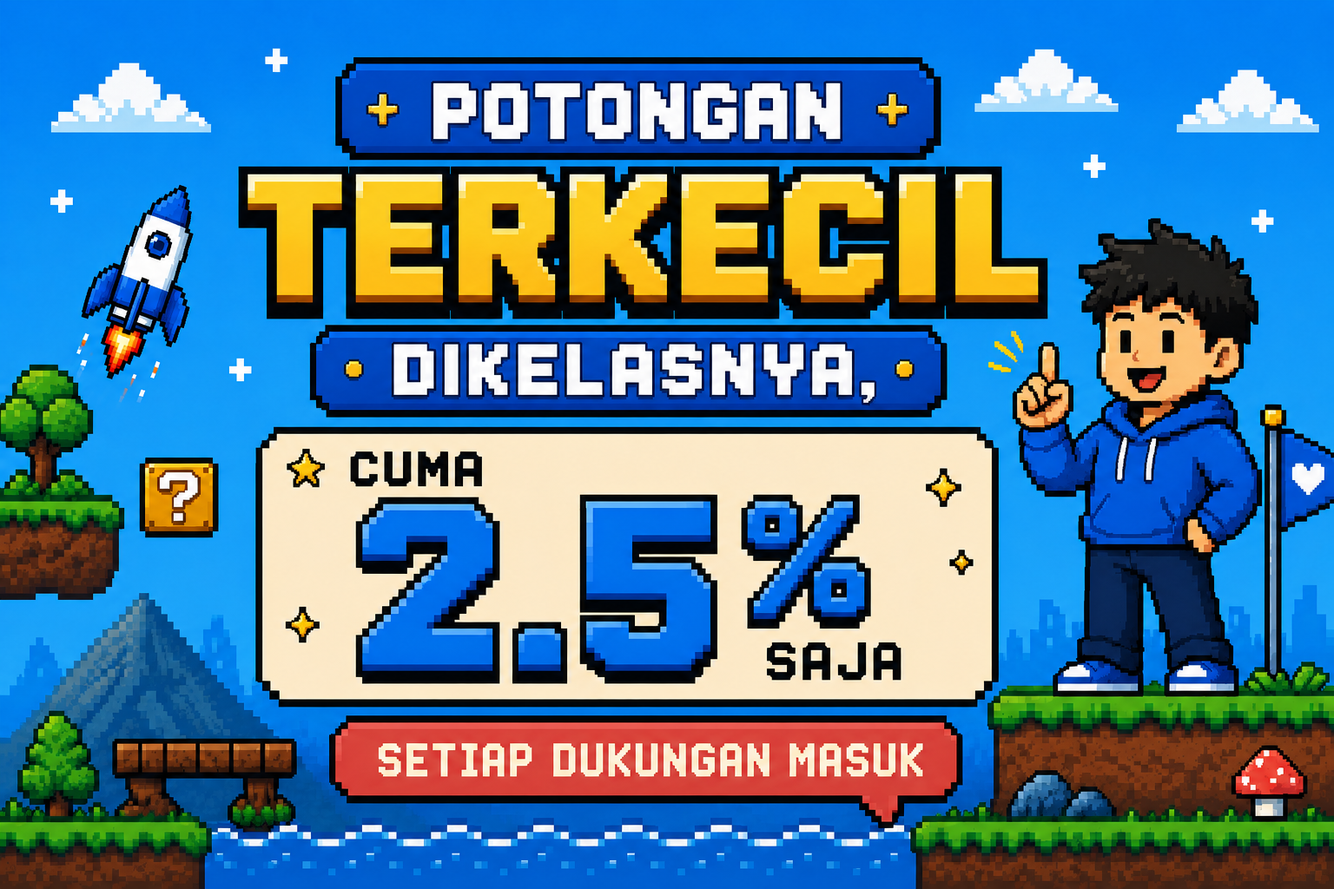
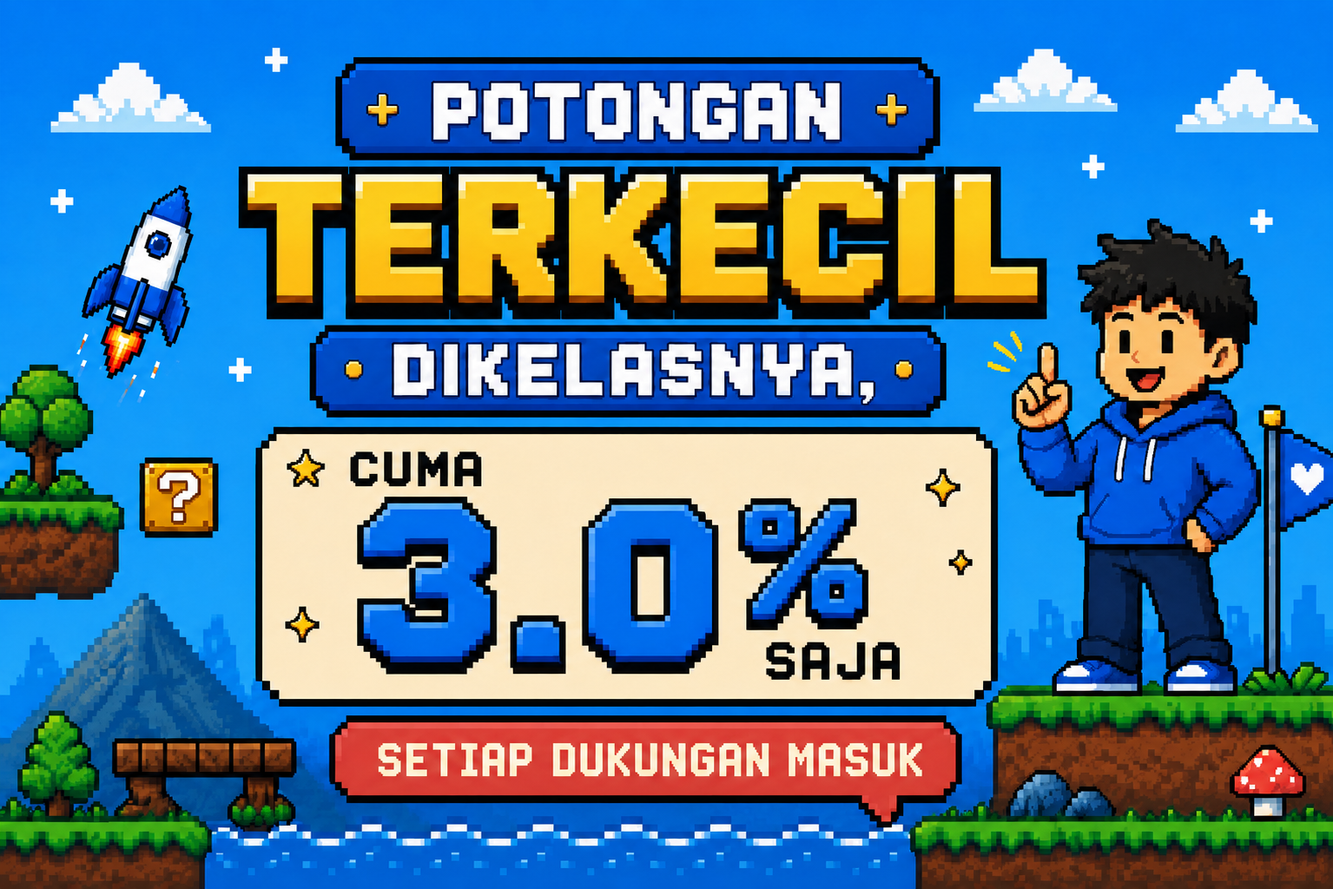
fix

diff --git a/src/pages/taptiptup.jsx b/src/pages/taptiptup.jsx
@@ -6,13 +6,13 @@ import { motion, useMotionValue, useSpring } from "framer-motion";
 ───────────────────────────────────────── */
 
 const FEATURES = [
-  { num: "01", ico: "🎨", name: "Overlay OBS Kustom", desc: "Alert donasi tampil langsung di stream. Tema modern, classic, atau minimal dengan animasi dan warna sesukamu." },
-  { num: "02", ico: "🔊", name: "Suara per Nominal", desc: "Sultan dapat sound kenceng! Atur efek suara berbeda untuk setiap tier donasi. 16+ preset siap pakai." },
+  { num: "01", ico: "🎨", name: "Overlay OBS Kustom", desc: "Alert Dukungan tampil langsung di stream. Tema modern, classic, atau minimal dengan animasi dan warna sesukamu." },
+  { num: "02", ico: "🔊", name: "Suara per Nominal", desc: "Sultan dapat sound kenceng! Atur efek suara berbeda untuk setiap tier Dukungan. 16+ preset siap pakai." },
   { num: "03", ico: "🛡", name: "Filter Kata Terlarang", desc: "Blokir, sensor, atau ganti kata tidak pantas otomatis. Jagain konten tetap aman dan profesional." },
-  { num: "04", ico: "🎯", name: "Milestones & Goals", desc: "Tampilkan progress target donasi di OBS. Donor bisa lihat seberapa dekat goal tercapai." },
-  { num: "05", ico: "🖼", name: "Media Alert", desc: "Izinkan donor kirim gambar atau video saat donasi mencapai nominal tertentu. Sultan alert yang epic." },
-  { num: "06", ico: "🗳", name: "Poll & Subathon", desc: "Voting live untuk penonton dan timer subathon yang bertambah otomatis setiap ada donasi masuk." },
-  { num: "07", ico: "🏆", name: "Leaderboard", desc: "Tampilkan top donor di overlay OBS. Gamifikasi donasi bikin penonton makin kompetitif dan seru." },
+  { num: "04", ico: "🎯", name: "Milestones & Goals", desc: "Tampilkan progress target Dukungan di OBS. Donor bisa lihat seberapa dekat goal tercapai." },
+  { num: "05", ico: "🖼", name: "Media Alert", desc: "Izinkan donor kirim gambar atau video saat Dukungan mencapai nominal tertentu. Sultan alert yang epic." },
+  { num: "06", ico: "🗳", name: "Poll & Subathon", desc: "Voting live untuk penonton dan timer subathon yang bertambah otomatis setiap ada Dukungan masuk." },
+  { num: "07", ico: "🏆", name: "Leaderboard", desc: "Tampilkan top donor di overlay OBS. Gamifikasi Dukungan bikin penonton makin kompetitif dan seru." },
   { num: "08", ico: "👥", name: "Streamer Community", desc: "Temukan dan follow sesama streamer. Bangun network, kolaborasi, dan berkembang bersama." },
 ];
 
@@ -20,19 +20,19 @@ const HOW_IT_WORKS = [
   { num: "01", ico: "🚀", title: "Daftar Gratis", desc: "Buat akun dalam hitungan detik. Tidak perlu kartu kredit apapun." },
   { num: "02", ico: "🎨", title: "Konfigurasi Overlay", desc: "Pilih tema, warna, animasi, dan atur suara sesuai brand stream-mu." },
   { num: "03", ico: "📺", title: "Pasang di OBS", desc: "Copy URL overlay, tambahkan sebagai Browser Source di OBS Studio." },
-  { num: "04", ico: "💸", title: "Terima Donasi", desc: "Donor bayar via QRIS atau transfer — alert langsung muncul di stream!" },
+  { num: "04", ico: "💸", title: "Terima Dukungan", desc: "Donor bayar via QRIS atau transfer — alert langsung muncul di stream!" },
 ];
 
 const TESTIMONIALS = [
   { avatar: "R", avatarBg: "#7c5cbf", avatarColor: "#fff", name: "@ZulionZX", role: "Coding Streamer", text: '"Setup-nya gampang banget, 5 menit udah live. Alert-nya keren dan donatur makin semangat karena ada leaderboard!"', statNum: "2026", statLabel: "tahun ini" },
   { avatar: "S", avatarBg: "#e05a3a", avatarColor: "#fff", name: "@Krigatsu", role: "Gaming Streamer", text: '"Fitur filter kata terlarang beneran ngebantu banget. Streamku jadi lebih aman dan aku bisa fokus main."', statNum: "2026", statLabel: "tahun ini" },
-  { avatar: "B", avatarBg: 'white', avatarColor: "#080808", name: "@MinusGamdes", role: "Music Streamer", text: '"Sound tier sultan pakai efek beda — penonton jadi pengen donasi lebih gede biar dapat sound kenceng!"', statNum: "2026", statLabel: "tahun ini" },
+  { avatar: "B", avatarBg: 'white', avatarColor: "#080808", name: "@MinusGamdes", role: "Music Streamer", text: '"Sound tier sultan pakai efek beda — penonton jadi pengen Dukungan lebih gede biar dapat sound kenceng!"', statNum: "2026", statLabel: "tahun ini" },
 ];
 
 const PLANS = [
   {
     name: "Gratis", desc: "Mulai tanpa risiko", price: "Rp 0", period: "// selamanya",
-    features: ["Overlay OBS basic", "Alert donasi real-time", "1 preset suara", "QR Code donasi", "Dashboard riwayat"],
+    features: ["Overlay OBS basic", "Alert Dukungan real-time", "1 preset suara", "QR Code Dukungan", "Dashboard riwayat"],
     cta: "Mulai Gratis", hot: false,
   },
   {
@@ -325,13 +325,13 @@ function Hero({ C, isDark }) {
 
                 {/* Banner */}
                 <span className="px-2 2xl:min-w-[70vw] min-w-[64vw] relative md:text-black 2xl:h-[98px] md:h-[85px] md:bg-[azure] inline-block">
-                  POTONGAN HANYA 2.5% UNTUK
+                  POTONGAN HANYA 3% UNTUK
                 </span>
               </motion.div>
 
               {/* Tetap diam */}
               <span>
-                SETIAP DONASI MASUK
+                SETIAP Dukungan MASUK
               </span>
 
             </span>
@@ -353,7 +353,7 @@ function Hero({ C, isDark }) {
               textAlign: "center",
             }}
           >
-            Platform donasi streamer asal Indonesia dengan potongan terkecil yaitu 2.5%. 
+            Platform Dukungan streamer asal Indonesia dengan potongan terkecil yaitu 3%. 
           </p>
 
           {/* Container Tombol */}
@@ -744,7 +744,7 @@ function FeeComparison({ C }) {
                     {p.feeDonate.toFixed(1)}% + {p.feeWdLabel || '—'}
                   </div>
                   <div style={{ fontFamily: "'Space Mono',monospace", fontSize: 12, color: p.winner ? "#000000" : "black", letterSpacing: "0.05em", textTransform: "uppercase", marginTop: 10 }}>
-                    {p.winner || p.name === 'TipTap' ? 'potongan per donasi + WD semua metode' : 'potongan per donasi + WD Bank'}
+                    {p.winner || p.name === 'TipTap' ? 'potongan per Dukungan + WD semua metode' : 'potongan per Dukungan + WD Bank'}
                   </div>
                 </div>
               </div>
@@ -764,7 +764,7 @@ function Footer({ C }) {
         </div>
         <div className="md:flex items-center gap-1">
           <span style={{ fontSize: 11, color: C.muted, transition: "color 0.4s" }}>
-            Platform donasi streaming terbaik untuk konten kreator Indonesia.
+            Platform Dukungan streaming terbaik untuk konten kreator Indonesia.
           </span>
           <a href="/privacy-policy" style={{ fontSize: 11, color: '#38bdf8', transition: "color 0.4s", whiteSpace: "nowrap" }}>
             Kebijakan privasi
@@ -857,39 +857,237 @@ function buildGlobalStyles(C) {
 
 const SHARE_TEMPLATES = {
   1: {
-    label: "Alert Donasi Real-Time",
+    label: "Alert Dukungan Real-Time",
     ig: [
-      { platform: "Instagram Caption", text: `🎮 Streamer Indo, dengerin dulu!\n\nTired of potongan donasi gede?\nTapTipTup cuma ambil 2.5% — sisanya buat kamu! 💸\n\n✅ Alert OBS real-time\n✅ QRIS + Transfer langsung\n✅ Sound kustom per tier\n✅ Gratis selamanya (plan basic)\n\nCoba sekarang di taptiptup.com 🔗\n\n#Streamer #StreamingIndonesia #TapTipTup` },
-      { platform: "Instagram Story", text: `Hei streamer! 👋\n\nDonasi kamu dipotong berapa?\n5%? 10%?\n\nTapTipTup: cuma 2.5% ✨\nAlert langsung di OBS-mu!\n\nLink di bio → taptiptup.com` }
+      { platform: "Instagram Caption", text: `🎮 Streamer Indo, dengerin dulu!\n\nTired of potongan Dukungan gede?\nTapTipTup cuma ambil 3% — sisanya buat kamu! 💸\n\n✅ Alert OBS real-time\n✅ QRIS + Transfer langsung\n✅ Sound kustom per tier\n✅ Gratis selamanya (plan basic)\n\nCoba sekarang di taptiptup.com 🔗\n\n#Streamer #StreamingIndonesia #TapTipTup` },
+      { platform: "Instagram Story", text: `Hei streamer! 👋\n\nDukungan kamu dipotong berapa?\n5%? 10%?\n\nTapTipTup: cuma 3% ✨\nAlert langsung di OBS-mu!\n\nLink di bio → taptiptup.com` }
     ],
     desktop: [
-      { platform: "Twitter / X", text: `Streamer Indonesia, ini buat kalian 🧵\n\nTapTipTup = platform donasi lokal dengan potongan TERKECIL. Cuma 2.5%.\n\n✅ Alert OBS real-time\n✅ Sound custom per tier\n✅ QRIS & transfer bank\n✅ Gratis untuk mulai\n\nCoba gratis → taptiptup.com` },
-      { platform: "Facebook / Komunitas", text: `Para streamer, pernah ngerasa rugi kena potongan donasi gede?\n\nSaya baru cobain TapTipTup — potongannya cuma 2.5%! Setup OBS-nya juga gampang, kurang dari 5 menit udah live.\n\nCoba gratis di taptiptup.com 🚀` }
+      { platform: "Twitter / X", text: `Streamer Indonesia, ini buat kalian 🧵\n\nTapTipTup = platform Dukungan lokal dengan potongan TERKECIL. Cuma 3%.\n\n✅ Alert OBS real-time\n✅ Sound custom per tier\n✅ QRIS & transfer bank\n✅ Gratis untuk mulai\n\nCoba gratis → taptiptup.com` },
+      { platform: "Facebook / Komunitas", text: `Para streamer, pernah ngerasa rugi kena potongan Dukungan gede?\n\nSaya baru cobain TapTipTup — potongannya cuma 3%! Setup OBS-nya juga gampang, kurang dari 5 menit udah live.\n\nCoba gratis di taptiptup.com 🚀` }
     ]
   },
   2: {
     label: "Dashboard & Fitur Lengkap",
     ig: [
-      { platform: "Instagram Caption", text: `Level up stream kamu dengan TapTipTup! 🚀\n\nBukan cuma terima donasi —\nDashboard lengkap buat manage semuanya:\n📊 Riwayat donasi real-time\n🏆 Leaderboard top donor\n🎯 Milestone & goal tracker\n🗳 Poll langsung dari penonton\n\nGratis untuk mulai. Pro mulai 49rb/bulan.\n\ntaptiptup.com ✨\n\n#ContentCreator #StreamerIndonesia #TapTipTup` },
-      { platform: "Instagram Story", text: `Dashboard donasi streamer terlengkap 📊\n\n→ Real-time analytics\n→ Top donor leaderboard\n→ Poll & subathon timer\n→ Setup OBS < 5 menit\n\nGratis di taptiptup.com 🔥` }
+      { platform: "Instagram Caption", text: `Level up stream kamu dengan TapTipTup! 🚀\n\nBukan cuma terima Dukungan —\nDashboard lengkap buat manage semuanya:\n📊 Riwayat Dukungan real-time\n🏆 Leaderboard top donor\n🎯 Milestone & goal tracker\n🗳 Poll langsung dari penonton\n\nGratis untuk mulai. Pro mulai 49rb/bulan.\n\ntaptiptup.com ✨\n\n#ContentCreator #StreamerIndonesia #TapTipTup` },
+      { platform: "Instagram Story", text: `Dashboard Dukungan streamer terlengkap 📊\n\n→ Real-time analytics\n→ Top donor leaderboard\n→ Poll & subathon timer\n→ Setup OBS < 5 menit\n\nGratis di taptiptup.com 🔥` }
     ],
     desktop: [
-      { platform: "Twitter / X", text: `Nggak nyangka ada platform donasi streamer lokal sekeren ini.\n\nTapTipTup punya:\n📊 Dashboard analytics real-time\n🏆 Leaderboard gamifikasi donor\n🎯 Milestone tracker di OBS\n🗳 Live poll & subathon timer\n🖼 Media alert dari donor\n\nDan setupnya literally 5 menit.\nGratis untuk mulai → taptiptup.com` },
-      { platform: "Facebook / Komunitas", text: `Sharing pengalaman pakai TapTipTup buat stream:\n\nFitur favoritku? Leaderboard donor langsung muncul di OBS. Penonton jadi kompetitif sendiri, malah bikin donasi naik! 😂\n\nPlus ada poll live yang bisa divotin penonton real-time, dan milestone goal yang keliatan progressnya.\n\ntaptiptup.com` }
+      { platform: "Twitter / X", text: `Nggak nyangka ada platform Dukungan streamer lokal sekeren ini.\n\nTapTipTup punya:\n📊 Dashboard analytics real-time\n🏆 Leaderboard gamifikasi donor\n🎯 Milestone tracker di OBS\n🗳 Live poll & subathon timer\n🖼 Media alert dari donor\n\nDan setupnya literally 5 menit.\nGratis untuk mulai → taptiptup.com` },
+      { platform: "Facebook / Komunitas", text: `Sharing pengalaman pakai TapTipTup buat stream:\n\nFitur favoritku? Leaderboard donor langsung muncul di OBS. Penonton jadi kompetitif sendiri, malah bikin Dukungan naik! 😂\n\nPlus ada poll live yang bisa divotin penonton real-time, dan milestone goal yang keliatan progressnya.\n\ntaptiptup.com` }
     ]
   },
   3: {
     label: "Community & Streamer Network",
     ig: [
-      { platform: "Instagram Caption", text: `Gabung komunitas streamer Indonesia bareng TapTipTup! 👥\n\nBukan cuma donasi —\nkamu bisa discover & follow sesama streamer,\nbangun network, dan collab bareng!\n\nMulai gratis, tanpa kartu kredit.\nLink di bio → taptiptup.com\n\nTag temen streamer kamu di sini! 👇\n\n#StreamerIndonesia #KomunitasStreamer #TapTipTup` },
-      { platform: "Instagram Story", text: `Streamer Indonesia berkembang bareng! 🤝\n\nTapTipTup punya fitur:\n✅ Temukan sesama streamer\n✅ Bangun network kolaborasi\n✅ Donasi dengan potongan 2.5% aja\n\nTag temen streamer kamu!\ntaptiptup.com` }
+      { platform: "Instagram Caption", text: `Gabung komunitas streamer Indonesia bareng TapTipTup! 👥\n\nBukan cuma Dukungan —\nkamu bisa discover & follow sesama streamer,\nbangun network, dan collab bareng!\n\nMulai gratis, tanpa kartu kredit.\nLink di bio → taptiptup.com\n\nTag temen streamer kamu di sini! 👇\n\n#StreamerIndonesia #KomunitasStreamer #TapTipTup` },
+      { platform: "Instagram Story", text: `Streamer Indonesia berkembang bareng! 🤝\n\nTapTipTup punya fitur:\n✅ Temukan sesama streamer\n✅ Bangun network kolaborasi\n✅ Dukungan dengan potongan 3% aja\n\nTag temen streamer kamu!\ntaptiptup.com` }
     ],
     desktop: [
-      { platform: "Twitter / X", text: `Shoutout buat semua streamer Indonesia 🇮🇩\n\nKalian deserve platform donasi yang:\n✅ Buatan lokal, paham kebutuhan kita\n✅ Potongan kecil (cuma 2.5%)\n✅ Ada komunitas sesama streamer\n✅ Setup OBS gampang & cepat\n\nTapTipTup hadir buat itu semua.\nGratis untuk mulai → taptiptup.com\n\nRT kalau bermanfaat! 🙏` },
-      { platform: "Facebook / Komunitas", text: `Buat semua streamer di grup ini —\n\nKalau kalian cari platform donasi yang:\n• Buatan Indonesia (paham ekosistem kita)\n• Potongan paling kecil (2.5%)\n• Ada fitur komunitas streamer\n• Setup simpel dan cepat\n\nTapTipTup jawabannya. Saya udah coba dan rekomendasinya 10/10 untuk streamer lokal.\n\nCoba gratis sekarang di taptiptup.com 🙏` }
+      { platform: "Twitter / X", text: `Shoutout buat semua streamer Indonesia 🇮🇩\n\nKalian deserve platform Dukungan yang:\n✅ Buatan lokal, paham kebutuhan kita\n✅ Potongan kecil (cuma 3%)\n✅ Ada komunitas sesama streamer\n✅ Setup OBS gampang & cepat\n\nTapTipTup hadir buat itu semua.\nGratis untuk mulai → taptiptup.com\n\nRT kalau bermanfaat! 🙏` },
+      { platform: "Facebook / Komunitas", text: `Buat semua streamer di grup ini —\n\nKalau kalian cari platform Dukungan yang:\n• Buatan Indonesia (paham ekosistem kita)\n• Potongan paling kecil (3%)\n• Ada fitur komunitas streamer\n• Setup simpel dan cepat\n\nTapTipTup jawabannya. Saya udah coba dan rekomendasinya 10/10 untuk streamer lokal.\n\nCoba gratis sekarang di taptiptup.com 🙏` }
     ]
   },
 };
+
+// Tambahkan komponen ini di file yang sama, setelah SharePromo dan sebelum export default
+
+// ─── DATA FAQ ───────────────────────────────────────────────────────────────
+const FAQ_DATA = [
+  {
+    q: "Saweria itu apa? Bedanya sama TapTipTup?",
+    a: "Saweria adalah platform Dukungan lokal yang sudah ada lebih dulu. TapTipTup hadir dengan potongan lebih kecil — hanya 3% — dibanding Saweria yang memotong 5%. Fitur kami juga lebih lengkap: leaderboard, poll live, subathon timer, dan sound tier kustom.",
+  },
+  {
+    q: "Apakah saya bisa menggunakan TapTipTup tanpa live streaming?",
+    a: "Tentu bisa! Dukungan masuk ke akun kamu meskipun kamu tidak sedang live. Semua riwayat Dukungan bisa dicek di menu Transaksi kapan saja.",
+  },
+  {
+    q: "Platform live streaming apa saja yang bisa diintegrasikan?",
+    a: "TapTipTup terintegrasi dengan semua software broadcasting yang mendukung Browser Source, seperti OBS Studio dan Streamlabs OBS (SLOBS). Bisa dipakai untuk YouTube Live, TikTok Live, Twitch, Facebook Gaming, dan Instagram Live.",
+  },
+  {
+    q: "Berapa minimal Dukungan dan minimal penarikan dana?",
+    a: "Minimal Dukungan adalah Rp 1.000. Minimal penarikan dana adalah Rp 50.000. Biaya penarikan hanya Rp 3.000 — lebih murah dari platform lain.",
+  },
+  {
+    q: "Berapa lama proses konfirmasi Dukungan sampai bisa dicairkan?",
+    a: "Memakan waktu 3 hari kerja untuk konfirmasi oleh Payment Gateway. Setelah itu saldo bertambah dan siap dicairkan. Contoh: Dukungan masuk 10 Januari jam 12.00 WIB, dana bisa dicairkan 13 Januari jam 12.00 WIB.",
+  },
+  {
+    q: "Apakah dana Dukungan yang sudah dikirim bisa ditarik kembali?",
+    a: "Tidak. Dana Dukungan yang sudah dikirimkan tidak dapat ditarik kembali. Pastikan kamu sudah yakin sebelum mengirim Dukungan.",
+  },
+  {
+    q: "Biaya apa saja yang dipotong dari Dukungan yang masuk?",
+    a: "Potongan platform TapTipTup hanya 3% dari setiap Dukungan. Biaya penarikan ke rekening bank sebesar Rp 3.000 per transaksi. Tidak ada biaya tersembunyi lainnya.",
+  },
+  {
+    q: "Bagaimana cara memasang overlay TapTipTup di OBS?",
+    a: "Masuk ke dashboard, salin URL overlay yang tersedia, lalu tambahkan sebagai Browser Source di OBS Studio. Prosesnya tidak lebih dari 5 menit. Tersedia video tutorial lengkap di halaman tutorial kami.",
+  },
+];
+
+// ─── KOMPONEN FAQ ────────────────────────────────────────────────────────────
+function FAQ({ C }) {
+  const [openIndex, setOpenIndex] = useState(null);
+
+  function toggle(i) {
+    setOpenIndex(prev => (prev === i ? null : i));
+  }
+
+  return (
+    <section
+      id="faq"
+      className="relative overflow-hidden w-full flex flex-col justify-center items-center"
+      style={{
+        background: "#0a0f1e",
+        borderTop: "1px solid rgba(255,255,255,0.08)",
+        padding: "100px 0 100px",
+      }}
+    >
+      {/* Grid background */}
+      <div className="absolute inset-0 pointer-events-none select-none" style={{ zIndex: 0 }}>
+        <svg width="100%" height="100%" xmlns="http://www.w3.org/2000/svg">
+          <defs>
+            <pattern id="faq-grid" width="40" height="40" patternUnits="userSpaceOnUse">
+              <path d="M 40 0 L 0 0 0 40" fill="none" stroke="rgba(255,255,255,0.06)" strokeWidth="0.5" />
+            </pattern>
+          </defs>
+          <rect width="100%" height="100%" fill="url(#faq-grid)" />
+        </svg>
+      </div>
+
+      {/* Header */}
+      <div className="relative text-center flex flex-col items-center px-6 mb-14" style={{ zIndex: 2 }}>
+        <span style={{
+          fontFamily: "'Space Mono', monospace",
+          fontSize: 10, letterSpacing: "0.12em", textTransform: "uppercase",
+          color: "azure", marginBottom: 14, display: "block",
+        }}>
+          Pertanyaan Umum
+        </span>
+        <h2 style={{
+          fontFamily: "'Bebas Neue', sans-serif",
+          fontSize: "clamp(32px,6vw,72px)",
+          lineHeight: 1.1, color: "white", letterSpacing: "0.01em",
+        }}>
+          ADA YANG <span style={{ color: "azure" }}>DITANYAKAN?</span>
+        </h2>
+        <p style={{
+          fontFamily: "'Space Grotesk', sans-serif",
+          fontSize: 14, color: "rgba(255,255,255,0.45)",
+          marginTop: 14, maxWidth: 500, lineHeight: 1.6,
+        }}>
+          Jawaban untuk pertanyaan yang paling sering kami terima dari streamer Indonesia.
+        </p>
+      </div>
+
+      {/* Accordion */}
+      <div
+        className="relative mx-auto grid grid-cols-2 w-[90vw] gap-10 !mt-10 px-4 md:px-0"
+        style={{ zIndex: 2 }}
+      >
+      <div
+        className="grid grid-cols-1 md:grid-cols-2 w-[90vw]"
+        style={{
+          border: "1px solid rgba(255,255,255,0.08)", // border terluar
+        }}
+      >
+        {FAQ_DATA.map((item, i) => {
+          const isOpen = openIndex === i;
+          const isLeftCol  = i % 2 === 0;
+          const isTopRow   = i < 2;
+
+          return (
+            <div
+              key={i}
+              className="w-full cursor-pointer hover:bg-slate-100/5 active:scale-[0.99]"
+              onClick={() => toggle(i)}
+              style={{
+                // border kiri untuk kolom kanan (menghindari double border kiri+kanan)
+                borderLeft: !isLeftCol ? "1px solid rgba(255,255,255,0.08)" : "none",
+                // border atas untuk semua baris kecuali baris pertama
+                borderTop: !isTopRow ? "1px solid rgba(255,255,255,0.08)" : "none",
+                padding: "36px 20px",
+              }}
+            >
+              <button
+                style={{
+                  width: "100%", textAlign: "left", background: "none", border: "none",
+                  padding: 0, cursor: "pointer",
+                  display: "flex", justifyContent: "space-between", alignItems: "flex-start",
+                  gap: 16,
+                }}
+              >
+                <span style={{
+                  fontFamily: "'Space Grotesk', sans-serif",
+                  fontSize: "clamp(13px,1.6vw,15px)",
+                  fontWeight: 600, color: isOpen ? "azure" : "white",
+                  lineHeight: 1.4, flex: 1,
+                  transition: "color 0.2s",
+                }}>
+                  {item.q}
+                </span>
+                <span style={{
+                  width: 26, height: 26, flexShrink: 0,
+                  border: "1px solid rgba(255,255,255,0.2)",
+                  display: "flex", alignItems: "center", justifyContent: "center",
+                  color: isOpen ? "azure" : "rgba(255,255,255,0.5)",
+                  fontSize: 18, lineHeight: 1,
+                  transition: "all 0.2s",
+                  background: isOpen ? "rgba(100,100,300, 1)" : "transparent",
+                }}>
+                  {isOpen ? "−" : "+"}
+                </span>
+              </button>
+
+              <div style={{
+                overflow: "hidden",
+                maxHeight: isOpen ? 400 : 0,
+                opacity: isOpen ? 1 : 0,
+                transition: "max-height 0.35s ease, opacity 0.25s ease",
+              }}>
+                <p style={{
+                  fontFamily: "'Space Grotesk', sans-serif",
+                  fontSize: 13, color: "rgba(255,255,255,0.55)",
+                  lineHeight: 1.75, paddingTop: 12,
+                }}>
+                  {item.a}
+                </p>
+              </div>
+            </div>
+          );
+        })}
+      </div>
+    </div>
+
+      {/* CTA bawah */}
+      <div className="relative text-center !mt-16 px-6" style={{ zIndex: 2 }}>
+        <p style={{
+          fontFamily: "'Space Grotesk', sans-serif",
+          fontSize: 13, color: "rgba(255,255,255,0.35)",
+          marginBottom: 18,
+        }}>
+          Masih ada pertanyaan lain?
+        </p>
+        <a
+          href="mailto:help@taptiptup.com"
+          style={{
+            fontFamily: "'Space Mono', monospace",
+            fontSize: 11, letterSpacing: "0.1em", textTransform: "uppercase",
+            color: "azure", textDecoration: "none",
+            borderBottom: "1px solid rgba(173,216,230,0.35)",
+            paddingBottom: 2,
+          }}
+        >
+          Hubungi kami → taptiptup.support@gmail.com
+        </a>
+      </div>
+    </section>
+  );
+}
 
 function SharePromo({ C }) {
   const [format, setFormat] = useState('ig');
@@ -1107,6 +1305,8 @@ export default function TapTipTup() {
         />
       </section>
 
+      <FAQ C={C} />
+
       {/* ===== FOOTER ===== */}
      <footer className="text-center flex flex-col justify-center items-center w-full px-0 !pt-[20px] !pb-[0px] md:!pt-[90px] md:!pb-[60px]" 
         style={{
@@ -1132,7 +1332,7 @@ export default function TapTipTup() {
               fontSize: 13, color: "rgba(255,255,255,0.5)",
               lineHeight: 0.4, marginBottom: 20,
             }}>
-              Platform donasi streaming lokal terbaik untuk konten kreator Indonesia. Potongan hanya 2.5%, alert langsung di OBS, setup dalam 5 menit.
+              Platform Dukungan streaming lokal terbaik untuk konten kreator Indonesia. Potongan hanya 3%, alert langsung di OBS, setup dalam 5 menit.
             </p>
             <a href="/privacy-policy" style={{ fontFamily: "'Space Mono', monospace", fontSize: 10, color: "#BBDEFB", letterSpacing: "0.1em", textDecoration: "none" }}>
               KEBIJAKAN PRIVASI TAPTIPTUP
@@ -1186,7 +1386,7 @@ export default function TapTipTup() {
             {/* Kolom 2 — Overlay Tersedia */}
             <div className="flex w-max text-center justify-between m-auto items-center gap-3">
               {[
-                "Alert Donasi Real-Time",
+                "Alert Dukungan Real-Time",
                 "Leaderboard Top Donor",
                 "Milestone & Goal Bar",
                 "Subathon Timer",
@@ -1303,8 +1503,8 @@ export default function TapTipTup() {
                 maxWidth: "580px",
                 margin: "0 auto",
               }}>
-                Platform donasi lokal terbaik untuk streamer Indonesia. 
-                Potongan hanya 2.5%
+                Platform Dukungan lokal terbaik untuk streamer Indonesia. 
+                Potongan hanya 3%
               </p>
 
               <button

diff --git a/src/pages/withdrawPage.jsx b/src/pages/withdrawPage.jsx
@@ -574,7 +574,7 @@ export const WithdrawPage = () => {
             {[
               { label: 'Min. Tarik',  value: `Rp ${MIN_TARIK.toLocaleString('id-ID')}` },
               { label: 'Maks. Tarik', value: `Rp ${(MAX_TARIK / 1000000).toFixed(0)}jt` },
-              { label: 'Biaya Layanan', value: '3000' },
+              { label: 'Biaya Layanan', value: '3.000' },
             ].map(r => (
               <div key={r.label} className="bg-slate-50 dark:bg-slate-800 border border-slate-100 dark:border-slate-700 rounded-none p-3 text-center">
                 <p className="font-black text-blue-600 dark:text-white text-sm">{r.value}</p>
@@ -911,7 +911,7 @@ export const WithdrawPage = () => {
                             </p>
                           </td>
                           <td className="px-5 md:px-8 py-5">
-                            <p className="text-sm text-slate-400 dark:text-red-300">Rp 3000</p>
+                            <p className="text-sm text-slate-400 dark:text-red-300">Rp 3.000</p>
                           </td>
                           <td className="px-5 md:px-8 py-5">
                             <p className="text-slate-600 dark:text-slate-300 text-sm">{wd.paymentMethod || 'BANK'}</p>
